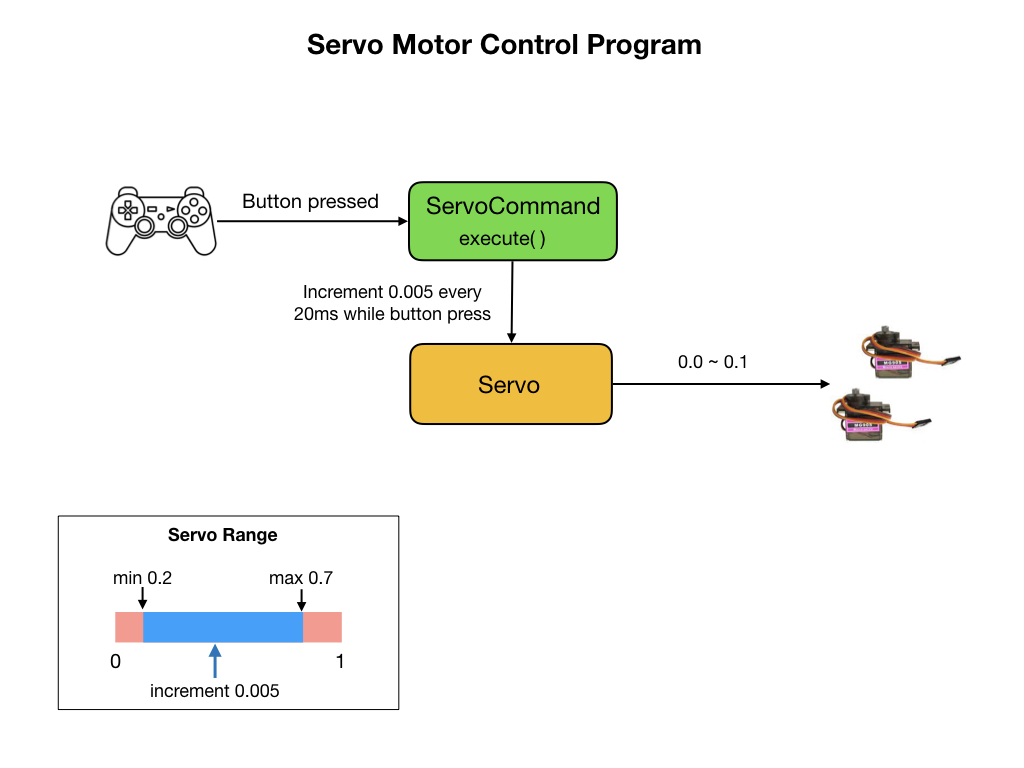
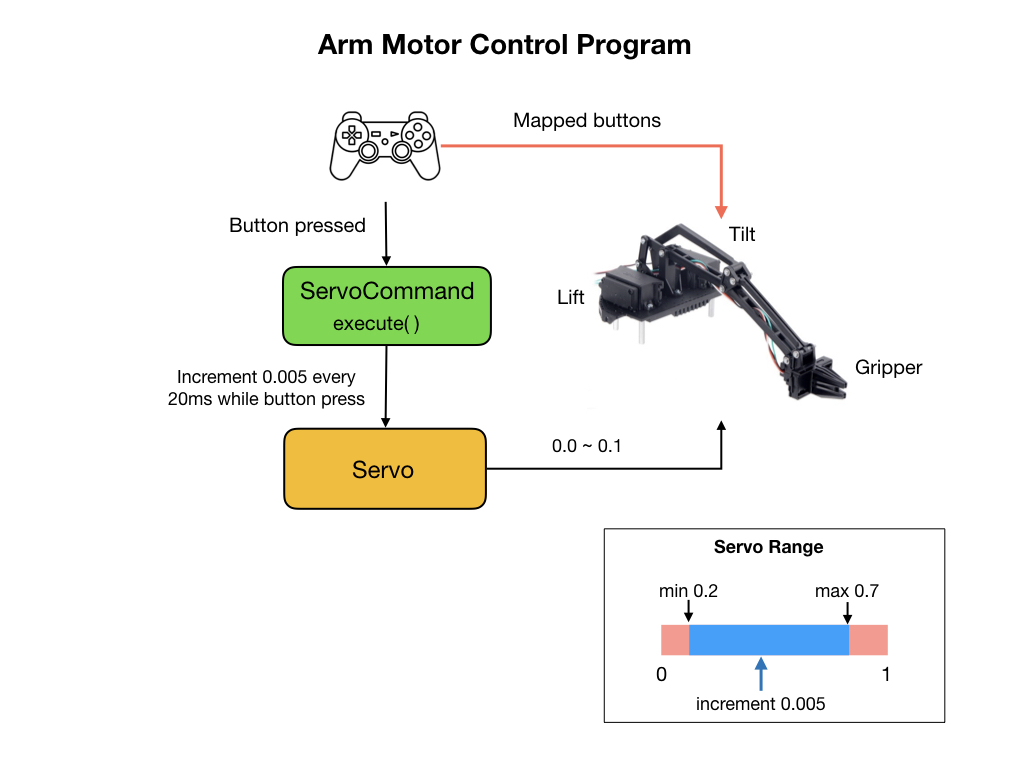
Added vision and servo doc

diff --git a/Tools/romiVision.md b/Tools/romiVision.md
@@ -1,7 +1,10 @@
 # <a name="code"></a>Vision Programming
-Explain camera server and filtering ...
+In this section we'll use the Raspberry Pi camera to control the robot.  You'll need to upload a program to the Raspberry Pi on the Romi in order to run the camera.  The camera program will make use of the open source software called [OpenCV](https://opencv.org/) and can be written in Java, Python, or C++.  In this lesson we'll use the Python programming language to write our camera program.  Why Python? Because most of the programming examples that you'll find online will use Python so if you run into any problems with your program chances you'll find the solution in Python.
 
-![Development Environment](../images/Romi/Romi.019.jpeg)
+![Camera Program Flow](../images/Romi/Romi.024.jpeg)
+
+
+
 
 ![Development Environment](../images/Romi/Romi.020.jpeg)
 
@@ -9,22 +12,67 @@ Explain camera server and filtering ...
 
 ![Development Environment](../images/Romi/Romi.021.jpeg)
 
-## GRIP
-On Mac start from Applications->GRIP
-Turn on the Romi
-Add Source -> IP Camera.  Put the URL of the camera stream.  wpilibpi.local:1181/stream.mjpg
-Follow FRC documentation to create the filter.
-The last filter must should be Filter Contours.
-Generate the code Tools->Generate Code.  Put it in your java main directory of your project.
-Change the class definition.  It must implement VisionPipeline.
-cd ~/Documents/romi-examples/java-multiCameraServer
-./gradlew build
-On the Romi WPILibPi.local webpage go to Application.
-Put into Writable mode
-Select "Uploaded Java jar" in the dropdown
-Upload the file build/libs/java-multiCameraServer-all.jar
-Run the Simulator
+## Using GRIP to Create a Pipeline
+A convenient way to create a frame processing pipeline is to use the FRC tool called 
 
+1. On Mac start from Applications->GRIP
+2. Turn on the Romi
+3. Add Source -> IP Camera.  Put the URL of the camera stream.  wpilibpi.local:1181/stream.mjpg
+4. Follow [FRC GRIP documentation](https://docs.wpilib.org/en/latest/docs/software/vision-processing/grip/index.html) to create the filter.
+The last filter should be Find Contours.
+5. Generate the code Tools->Generate Code.  
+6. Select Python as the output language.
+7. Use `GripPipeline` as the class name.
+8. Put it into the main directory of you camera server project.
+9. The module name can be `grip`.
+
+If you're generating the java pipeline version make sure the the "Implement WPILIB VisionPipeline" box is checked.  This will place the following code into the generated GRIP file:
+
+    import edu.wpi.first.vision.VisionPipeline;
+
+The class definition will look like this:
+
+    public class GripPipeline implements VisionPipeline {
+
+## Update your Camera Server Program
+
+
+
+
+
+### Display the Tracking View in Shuffleboard
+Shuffleboard uses the Network Tables to display the camera data so your java program must be running in order to see the live camera stream.
+
+## Upload Python Program
+1. cd ~/Documents/romi-examples/python-multiCameraServer
+2. The python program has multiple files so you need to upload them all.  This is done with a zip file.  Run `python3 build` to build the zip file.
+3. On the Romi WPILibPi.local webpage. Go to **Application**.
+4. Put Raspberry Pi file system into Writable mode.
+5. In the **File Upload** select the file wpilib.tar.gz file for upload.  Make sure that file extract is selected. Click the **Upload** button.
+6. Select "Uploaded Python file" in the dropdown.
+7. Select multiCameraServer.py for the file.  You only need to upload this if you change it, which shouldn't be very often. 
+
+Issues:
+
+The runCamera file keeps getting overwritten when you upload a new multiCameraServer.py file.  So just upload the tar file and then `Terminate` the application on the **Vision Status** page, and then press the `Up` button.
+
+![Upload Camera Program](../images/Romi/Romi.019.jpeg)
+
+## Upload Java Program
+1. cd ~/Documents/romi-examples/java-multiCameraServer
+2. run `./gradlew build` to build the jar file.  Make sure that the build is successful.
+3. On the Romi WPILibPi.local webpage, click on **Application** in the left panel.
+4. Put into Writable mode
+5. Select "Uploaded Java jar" in the dropdown.
+6. Click on **Choose File** file and upload the file `build/libs/java-multiCameraServer-all.jar`.
+
+## Test your Program
+Run the your java program from VSCode. In the Simulator you will see the Network Tables showing the data coming in from the python camera server program.  You can use this data to control the robot.
+
+## References
+[OpenCV](https://opencv.org/)
+
+[GRIP documentation](https://docs.wpilib.org/en/latest/docs/software/vision-processing/grip/index.html)
 
 <h3><span style="float:left">
 <a href="romiFirmware">Previous</a></span>

diff --git a/Tools/romiServos.md b/Tools/romiServos.md
@@ -1,0 +1,101 @@
+# <a name="code"></a>Programming Servos
+Servos work using a Pulse Width Modulation (PWM) signal that is passed to the servo every 20 milliseconds.  The pulse width is between 1 and 2 m/s where 1 m/s moves the servo to the 0 degree position and 2 m/s moves it a full 180 degrees.  Values in between those two time values move it to degrees in between 0 and 180 degrees.  
+
+![Servo Configuration](../images/Romi/Romi.023.jpeg)
+
+The following diagram shows how to connect the power and where to connect the servos to the Romi's GPIO pins. In order to supply enough power for the servos you will need to connect to the VSW pin on the Romi board.  For this you'll need a buck converter to drop the battery voltage down from ~7.5V to ~6V.  
+
+Connect the servos to EXT3 and EXT4 as shown in the diagram.  The ground wire (black or brown) goes towards the outside of the board. Then go to the **Romi** section of the Romi Web UI and ensure that the ports are set to PWM.
+
+![Servo Connection](../images/Romi/Romi.004.jpeg)
+
+The servos are controlled via buttons on the gamepad.  Your WPI based program runs on the laptop and launches the Robot Simulator tool.  The simulator communicates with the NodeJS application that runs on the Raspberry Pi. This application passes requests onto the microcontroller to control the GPIO ports that the servos are connected to.
+
+![Servo Control](../images/Romi/Romi.006.jpeg)
+
+The following sections explain the how to create the java classes that your WPI program needs to control the servos.
+
+## Create the RomiServo Subsystem
+This class will use the Servo base class provided by the WPI library.
+
+    import edu.wpi.first.wpilibj.Servo;
+
+Create a method to reset the servo position.
+
+    // Reset position to resting state
+      public void reset() {
+        m_liftPos = 0.5;
+        m_tiltPos = 0.5;
+        
+        m_lift.set(m_liftPos);
+        m_tilt.set(m_tiltPos);
+      }
+
+Implement tilt motor position
+
+    /** 
+      * Increment tilt motor position
+      * 
+      * @param delta Amount to change motor position
+      */
+      public void incrementTilt(double delta) {
+        m_tiltPos = saturateLimit(m_tiltPos + delta, Constants.Servo.TILT_MIN, Constants.Servo.TILT_MAX);
+        m_tilt.set(m_tiltPos);
+      }
+
+## Create ServoCommand
+This command will use a joystick to control the RomiServo subsystem. 
+
+    import frc.robot.subsystems.RomiServo;
+    import edu.wpi.first.wpilibj.Joystick;
+
+As always, the subsystem is added as a command requirement.
+
+    public ServoCommand(RomiServo romi_servo, Joystick joystick) {
+    m_servo = romi_servo;
+    m_joystick = joystick;
+
+    addRequirements(romi_servo);
+  }
+
+Code used to move the servos using the joystick.
+
+    public void execute() {
+
+    if(m_joystick.getRawButton(Constants.Joystick.TOPLEFT)) {
+      m_servo.incrementLift(-Constants.Servo.SERVO_INCREMENT);
+      System.out.println("Lift -" );
+    }
+    if(m_joystick.getRawButton(Constants.Joystick.TOPRIGHT)) {
+      m_servo.incrementLift(Constants.Servo.SERVO_INCREMENT);
+      System.out.println("Lift +" );
+    }
+    if(m_joystick.getRawButton(Constants.Joystick.BOTTOMLEFT)) {
+      m_servo.incrementTilt(Constants.Servo.SERVO_INCREMENT);
+      System.out.println("Tilt +" );
+    }
+    if(m_joystick.getRawButton(Constants.Joystick.BOTTOMRIGHT)) {
+      m_servo.incrementTilt(-Constants.Servo.SERVO_INCREMENT);
+      System.out.println("Tilt -" );
+    }
+  }
+
+## Add Servo to the RobotContainer.
+Now that we have a Servo subsystem and command we need to add it to the robot structure via the **RobotContainer** class.  We first need to import it, so open the RobotContainer.java file and the import near the top.
+
+    import frc.robot.subsystems.RomiServo;
+
+Create a varible to point to the RomiServo class.
+
+    private final RomiServo m_servo = new RomiServo();
+
+Inside the **configureButtonBindings()** method create a default command for the servo.  Remember that the default command is run whenever there is no other command using the subsystem.  The joystick will be used to control the servo so that also needs to passed to the **ServoCommand**.
+
+    m_servo.setDefaultCommand( new ServoCommand(m_servo, m_controller));
+
+
+
+<h3><span style="float:left">
+<a href="romiPID">Previous</a></span>
+<span style="float:right">
+<a href="romiArm">Next</a></span></h3>

diff --git a/Tools/romiArm.md b/Tools/romiArm.md
@@ -1,17 +1,45 @@
 # <a name="code"></a>Romi Robot Arm
 Before reading this section please review the [SimpleArm documentation](https://github.com/bb-frc-workshops/romi-examples/tree/main/simpleArm) on the BB FRC Workshops site.
 
-## Additional details
+## Controlling the Robot Arm
 This is how the software stack works together to operate the robot arm.
 ![Servo Control](../images/Romi/Romi.006.jpeg)
 
-Every time a button is pressed the related arm piece is moved incrementally.  There are min and max limits to the range of motion of the arm.  The range of the servo is 0 to 180 degrees but that is too large a range for the arm.
-![Servo Motor Control](../images/Romi/Romi.005.jpeg)
+A button is attached to each of the three arm components Lift, Tilt, and Gripper.  Every time a button is pressed the related arm component is moved.  This is done incrementally.  There are min and max limits to the range of motion of the arm.  The range of the servo is 0 to 180 degrees but that is too large a range for the arm.
 
-Make sure that the power to the arm servos is disconnected when you switch on the Romi.  Otherwise, the firmware will activate the servos to there full position which is outside of the recommended range.  
+![Arm Motor Control](../images/Romi/Romi.005.jpeg)
 
-Start your java program and put it into teleop mode.  Move the Tilt and Lift buttons, and then connect the power to the servos.  
-Prior to ending your program switch off the power to the servos.
+## Robot Arm Startup and Shutdown
+There's an issue with the robot arm when its attached to the Romi with the FRC software stack installed.  The microcontroller will initiate prior to you starting your java program, and it will activate the arm servos outside of their recommended operating ranges.  To prevent this, follow this startup procedure.
+
+1. Make sure that the power to the arm servos is disconnected when you switch on the Romi.    
+
+2. Start your java program and put it into teleop mode. 
+
+3. Move the Tilt and Lift buttons.
+
+4. Connect the power to the servos.  
+
+Prior to ending your java program switch off the power to the servos.
+
+## Adding an Arm Position Command
+The JoystickArmCommand incrementally moves the robot arm components as you press buttons on the joystick.  It would be useful to have a command that move the arm to the fully up or down position with a single button press. 
+
+Create a new command called **ArmPosition**.  In the VSCode file menu right click on the **commands** folder and select "Create a new class/command".  Enter the name **ArmPosition** in the box.  This will give you a template for creating your new command, which will include the class constructor and the **initialize(), execute(), end(),** and **isFinished()** methods.  
+
+Before filling out these methods with code let's think about what subsystems and components we'll need to create this command.  We'll certainly need the Arm subsystem.  The Arm will move in response to a button pressed on the Joystick so we'll also need to get a reference to that.
+
+Import the Arm and Joystick command at the top of the file and create a private variable to each of them inside of the class.  
+
+Example...
+
+Pass the Arm and Joysick into the constructor and set the Arm as a requirement.  Also assign the private arm and joystick variables to the parameters that you just passed in.
+
+Example...
+
+Now let's figure out what we're going to do with these. 
+
+
 
 <h3><span style="float:left">
 <a href="romiCode7">Previous</a></span>

diff --git a/Tools/romiPID.md b/Tools/romiPID.md
@@ -1,0 +1,28 @@
+# <a name="code"></a>PID and Line Following
+In this section we'll learn about PID control and use it to get the Romi to follow a line marked on the floor.  First we'll code our own simple controller so as we can learn about the basics of PID.  Then we'll implement the PID controller supplied by WPILib.  Before completing this section you should read the [PID Control documentation](https://docs.wpilib.org/en/latest/docs/software/commandbased/pid-subsystems-commands.html) provided by First Robotics.
+
+Our PID command is going to look like the following diagram.  We'll set the **Proportional** part to be 0.015.  Why?  The center line is coming in from the camera and becomes our measurement source.  We need to keep the center line at x=75 so that's becomes the setpoint.  The output is the turn angle going to the left and right motors.  Every command must have a subsystem requirement and in this case it would be the drive train. 
+
+![PID Command](../images/Romi/Romi.025.jpeg)
+
+## Camera Code Update
+Before we can implement the line following command we'll need a line to follow.  This is sent to us by the Camera Server that will send center line back to use via the Network Tables.
+
+## Home Made PID Controller
+As we have learned, the PID controller has three components.  However, we are only going to use the first one which is the **Proportional** part.  We'll put our controller in the `execute()` method of our command.
+
+## WPILib PID Controller
+Use the WPILib `PIDCommand` to control the motors to follow the line.
+
+## References
+[FRC Documentation - PID Control](https://docs.wpilib.org/en/latest/docs/software/commandbased/pid-subsystems-commands.html)
+
+[FRC Documentation - Controllers](https://docs.wpilib.org/en/latest/docs/software/advanced-controls/controllers/index.html)
+
+[Controls Engineering in FRC](https://file.tavsys.net/control/controls-engineering-in-frc.pdf)
+
+
+<h3><span style="float:left">
+<a href="romiVision">Previous</a></span>
+<span style="float:right">
+<a href="romiServos">Next</a></span></h3>

diff --git a/Concepts/Geometry/intro.md b/Concepts/Geometry/intro.md
@@ -1,4 +1,6 @@
 ## Robot Geometry
+[FRC Documentation - Geometry](https://docs.wpilib.org/en/latest/docs/software/advanced-controls/geometry/index.html)
+
 In order to control a robot it’s necessary to know its position and orientation — where it is at any particular time.  Its position in 3-D space is defined using the set of coordinates X, Y, and Z.  This coordinate system is called the Cartesian coordinate system.  When the robot moves from one position to another it’s referred to as a translation.  When it changes its direction then it has changed orientation.  The orientation of a robot is described in terms of Roll, Pitch, Yaw.  
 
 ![Position & Orientation](../../images/FRCGeometry/FRCGeometry.001.jpeg)
@@ -41,6 +43,9 @@ When the robot moves from one position to another you can update the <i>Translat
 The common way to keep track of the position and orientation of a robot is to create a class called a <i>Pose</i>.  This class comprises the two subclasses described previously, namely <i>Translation2d</i> and <i>Rotation2d</i>.  The translation class keeps track of the robot’s position whereas the rotation keeps track of its orientation.  Why use translation and rotation instead of position and orientation?  We want to know where the robot is as it travels from one position to another.  We also want to know the robot’s heading as is rotates from one orientation to another.
 
 ![Pose2d](../../images/FRCGeometry/FRCGeometry.017.jpeg)
+
+## References
+[FRC Documentation - Geometry](https://docs.wpilib.org/en/latest/docs/software/advanced-controls/geometry/index.html)
 
 <h3><span style="float:left">
 <a href="../../index">Previous</a></span>

diff --git a/Tools/romi.md b/Tools/romi.md
@@ -12,13 +12,17 @@ The <i>Romi</i> is designed to be used as a teaching tool for programming teams 
 - [Default Commands and Joystick](romiCode4)
 - [SmartDashboard](romiCode5)
 - [Sequential Commands](romiCode6)
-- [Programming Servos](romiCode7)
 
 ## Advanced Programming
+- [Path Planning and Trajectory Following](romiPathPlanning)
+- [Vision Programming](romiVision)
+- [PID and Line Following](romiPID)
+- [Programming Servos](romiServos)
 - [Robot Arm](romiArm)
+- [Filters](romiFilters)
 - [Color Sensor](colorSensor)
 - [Micro Controller Firmware](romiFirmware)
-- [Vision Programming](romiVision)
+
 
 <h3><span style="float:left">
 <a href="../index">Home</a></span>

diff --git a/Tools/romiCode3.md b/Tools/romiCode3.md
@@ -1,4 +1,4 @@
-# <a name="code"></a>Lesson 3 - Commands
+# <a name="code"></a>Commands
 Commands define high-level robot actions or behaviors that utilize the methods defined by the subsystems. A command is a simple state machine that is either initializing, executing, ending, or idle. Users write code specifying which action should be taken in each state. Subsystems are used by the CommandScheduler resource management system to ensure multiple robot actions are not "fighting" over the same hardware resource. Commands that use a subsystem should include that subsystem in their getRequirements() method.
 
 ![Commands](../images/Romi/Romi.015.jpeg)

diff --git a/Tools/romiFilters.md b/Tools/romiFilters.md
@@ -1,0 +1,17 @@
+# <a name="code"></a>Filters
+In this section we will learn about filters.
+
+## Slew Rate for DriveTrain
+Refer to the [Slew Rate Filter documentation](https://docs.wpilib.org/en/latest/docs/software/advanced-controls/filters/slew-rate-limiter.html) for details.
+
+## Use of other Filters
+Smoothing sensor input. etc.
+
+## References
+[FRC Documentation - Filters](https://docs.wpilib.org/en/latest/docs/software/advanced-controls/filters/index.html#)
+
+
+<h3><span style="float:left">
+<a href="romiArm">Previous</a></span>
+<span style="float:right">
+<a href="romiColorSensor">Next</a></span></h3>

diff --git a/Tools/romiPathPlanning.md b/Tools/romiPathPlanning.md
@@ -1,0 +1,12 @@
+# <a name="code"></a>Path Planning and Trajectory Following
+Use Ramsete controller to follow a path.
+
+## References
+[FRC Documentation - Path Planning](https://docs.wpilib.org/en/latest/docs/software/pathplanning/index.html)
+[FRC Documentation - Trajectory Following](https://docs.wpilib.org/en/latest/docs/software/advanced-controls/trajectories/index.html)
+
+
+<h3><span style="float:left">
+<a href="romiCode6">Previous</a></span>
+<span style="float:right">
+<a href="romiVision">Next</a></span></h3>

diff --git a/Tools/romiCode2.md b/Tools/romiCode2.md
@@ -1,4 +1,4 @@
-# <a name="code"></a>Lesson 2 - Subsystems
+# <a name="code"></a>Subsystems
 Subsystems are the basic unit of robot organization in the Command-based framework.  They encapsulate low-level hardware objects (motor controllers, sensors, etc) and provide methods that can be used by Commands.  Hardware resources used within a subsystem should generally remain encapsulated and not be shared by other parts of the robot.
 
 ![Subsystems](../images/Romi/Romi.012.jpeg)

diff --git a/Concepts/Motion/intro.md b/Concepts/Motion/intro.md
@@ -17,6 +17,11 @@ Closed loop control using encoders and PID.
 
 Closed loop diagram...
 
+## References
+[FRC Documentation - PID Control](https://docs.wpilib.org/en/latest/docs/software/commandbased/pid-subsystems-commands.html)
+
+[FRC Documentation - Controllers](https://docs.wpilib.org/en/latest/docs/software/advanced-controls/controllers/index.html)
+
 <h3><span style="float:left">
 <a href="../Kinematics/intro">Previous</a></span>
 <span style="float:right">

diff --git a/Tools/romiCode4.md b/Tools/romiCode4.md
@@ -1,9 +1,11 @@
-# <a name="code"></a>Lesson 4 - Default Command and Joystick
+# <a name="code"></a>Default Command and Joystick
 Explain default commands
 
 Create the ArcadeDrive command
 
 Get the Joystick working
+
+Use a slew rate filter
 
 <h3><span style="float:left">
 <a href="romiCode3">Previous</a></span>
